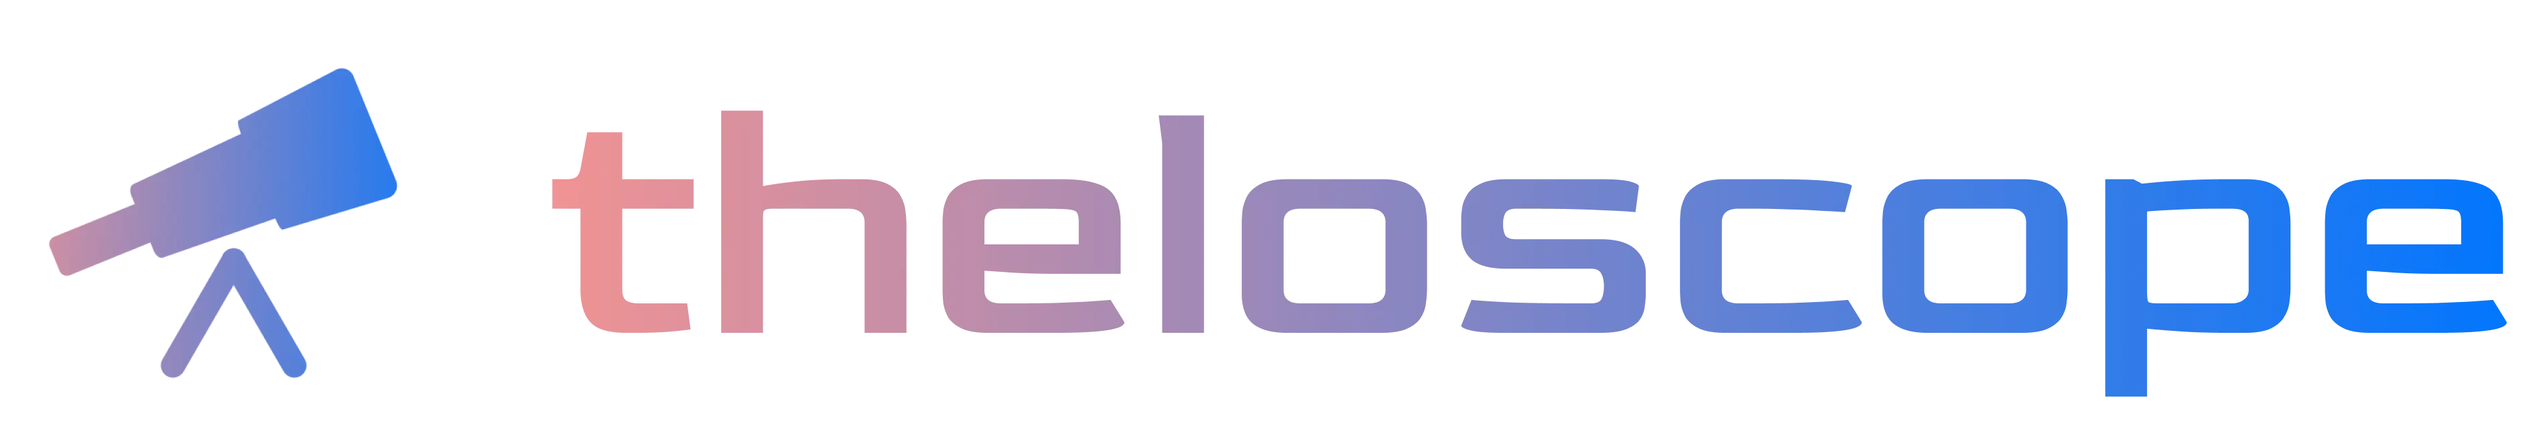
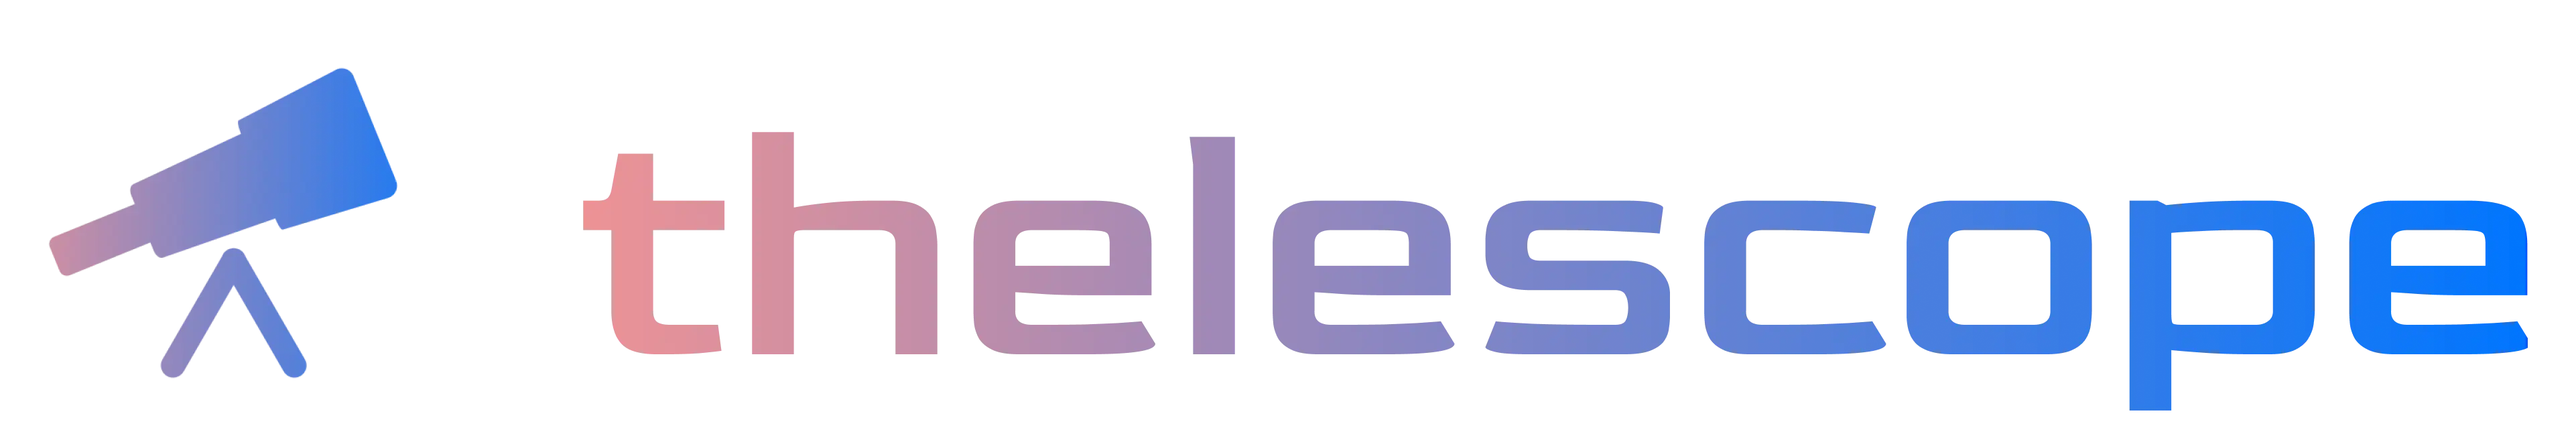
chore: change project name

diff --git a/frontend/src/utils/styles/particlesOptions.ts b/frontend/src/utils/styles/particlesOptions.ts
@@ -30,8 +30,8 @@ const particlesOptions: any = {
             color: "#ffffff",
             distance: 150,
             enable: true,
-            opacity: 0.5,
-            width: 0.2,
+            opacity: 0.45,
+            width: 0.3,
         },
         collisions: {
             enable: true,
@@ -50,7 +50,7 @@ const particlesOptions: any = {
             density: {
                 enable: true,
             },
-            value: 150,
+            value: 200,
         },
         opacity: {
             value: 0.3,
@@ -60,7 +60,7 @@ const particlesOptions: any = {
         },
         size: {
             random: true,
-            value: 3,
+            value: 2.5,
         },
     },
 };

diff --git a/frontend/src/components/landing/Banner.tsx b/frontend/src/components/landing/Banner.tsx
@@ -1,11 +1,11 @@
 import React from "react";
-import { theloscopeBanner } from "../../assets";
+import { thelescopeBanner } from "../../assets";
 
 const Banner: React.FC<{}> = () => {
     return (
         <div className="text-center mb-8">
             <div className="max-w-[200px] mx-auto">
-                <img src={theloscopeBanner} />
+                <img src={thelescopeBanner} />
             </div>
             <div className="animate-pulse italic">Eyeing all your actions.</div>
         </div>

diff --git a/frontend/src/components/extras/ParticlesBackground.tsx b/frontend/src/components/extras/ParticlesBackground.tsx
@@ -1,6 +1,6 @@
 import React, { useCallback, ReactNode } from "react";
 import { loadFull } from "tsparticles";
-import particlesOptions from "../../utils/particlesOptions";
+import particlesOptions from "../../utils/styles/particlesOptions";
 import Particles, { ParticlesProps } from "react-particles";
 
 interface ParticlesBackgroundProps extends ParticlesProps {

diff --git a/frontend/index.html b/frontend/index.html
@@ -4,7 +4,7 @@
         <meta charset="UTF-8" />
         <link rel="icon" type="image/svg+xml" href="/favicon.svg" />
         <meta name="viewport" content="width=device-width, initial-scale=1.0" />
-        <title>Theloscope</title>
+        <title>Thelescope</title>
     </head>
     <body>
         <div id="root"></div>

diff --git a/frontend/src/assets/index.tsx b/frontend/src/assets/index.tsx
@@ -1,4 +1,4 @@
-import theloscopeLogo from "./theloscope.svg";
-import theloscopeBanner from "./banner.webp";
+import thelescopeLogo from "./thelescope.svg";
+import thelescopeBanner from "./banner.webp";
 
-export { theloscopeLogo, theloscopeBanner };
+export { thelescopeLogo, thelescopeBanner };
